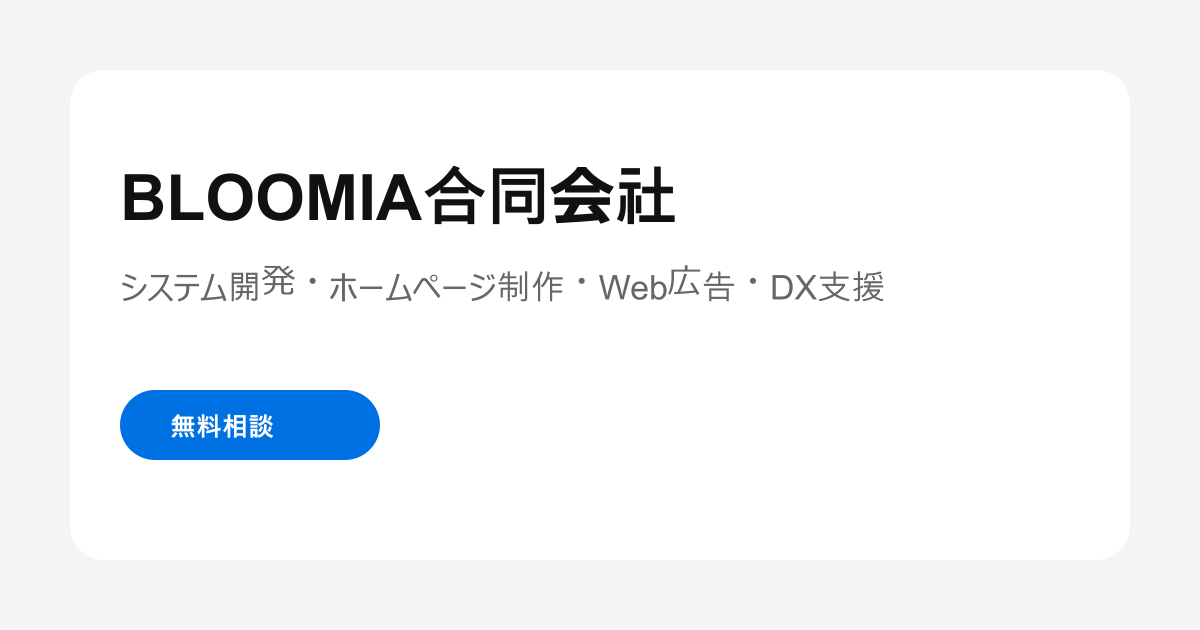
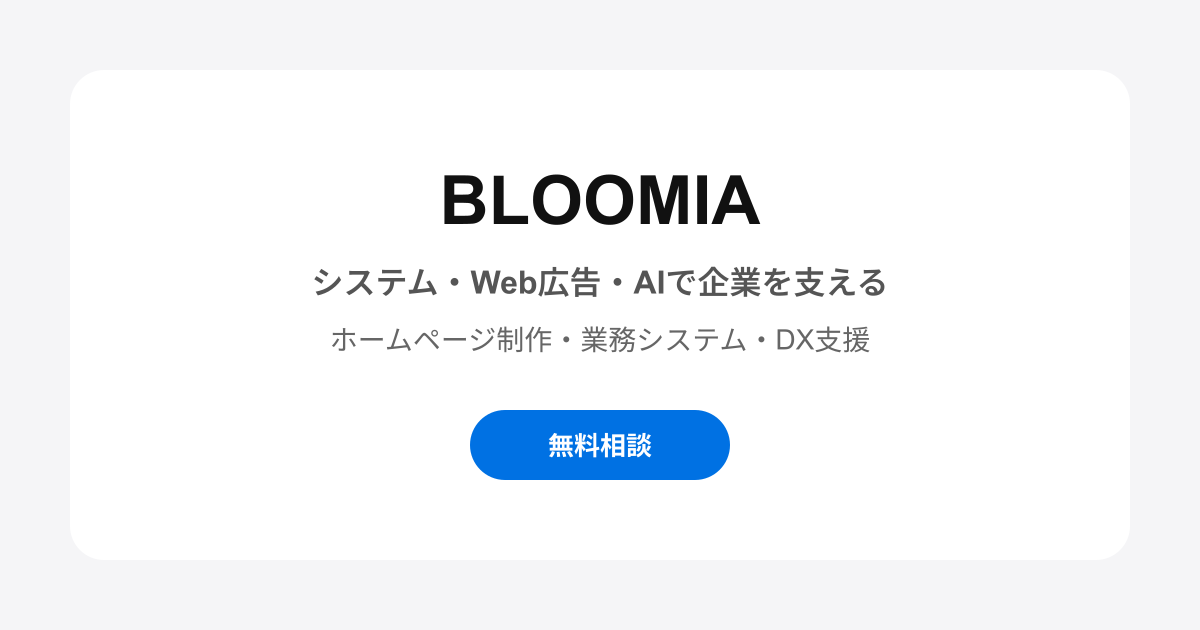
Fix OGP metadata and image alignment

diff --git a/app/page.tsx b/app/page.tsx
@@ -10,6 +10,13 @@ import { blogPosts } from "@/data/blog";
 import { newsPosts } from "@/data/news";
 import { services } from "@/data/services";
 import { organizationJsonLd, SEOJsonLd } from "@/lib/jsonld";
+import { createMetadata } from "@/lib/seo";
+
+export const metadata = createMetadata({
+  title: "BLOOMIA合同会社 | システム・Web広告・AIで企業を支える",
+  description:
+    "中小企業・個人事業主向けに、ホームページ制作、業務システム、Web広告、DX支援まで一貫してサポートします。"
+});
 
 const problems = [
   "ホームページが古い",

diff --git a/lib/site-config.ts b/lib/site-config.ts
@@ -8,7 +8,7 @@ export const siteConfig = {
   emailLink: "mailto:test@gmail.com",
   instagramUrl: "https://www.instagram.com/ryota_meta/",
   xUrl: "https://x.com/ryoe541513",
-  siteUrl: "https://example.com",
+  siteUrl: "https://officialsite-six.vercel.app",
   businessHours: "平日 9:00-18:00",
   siteName: "BLOOMIA合同会社",
   logoImage: "/images/bloomia-logo-mark.png",
